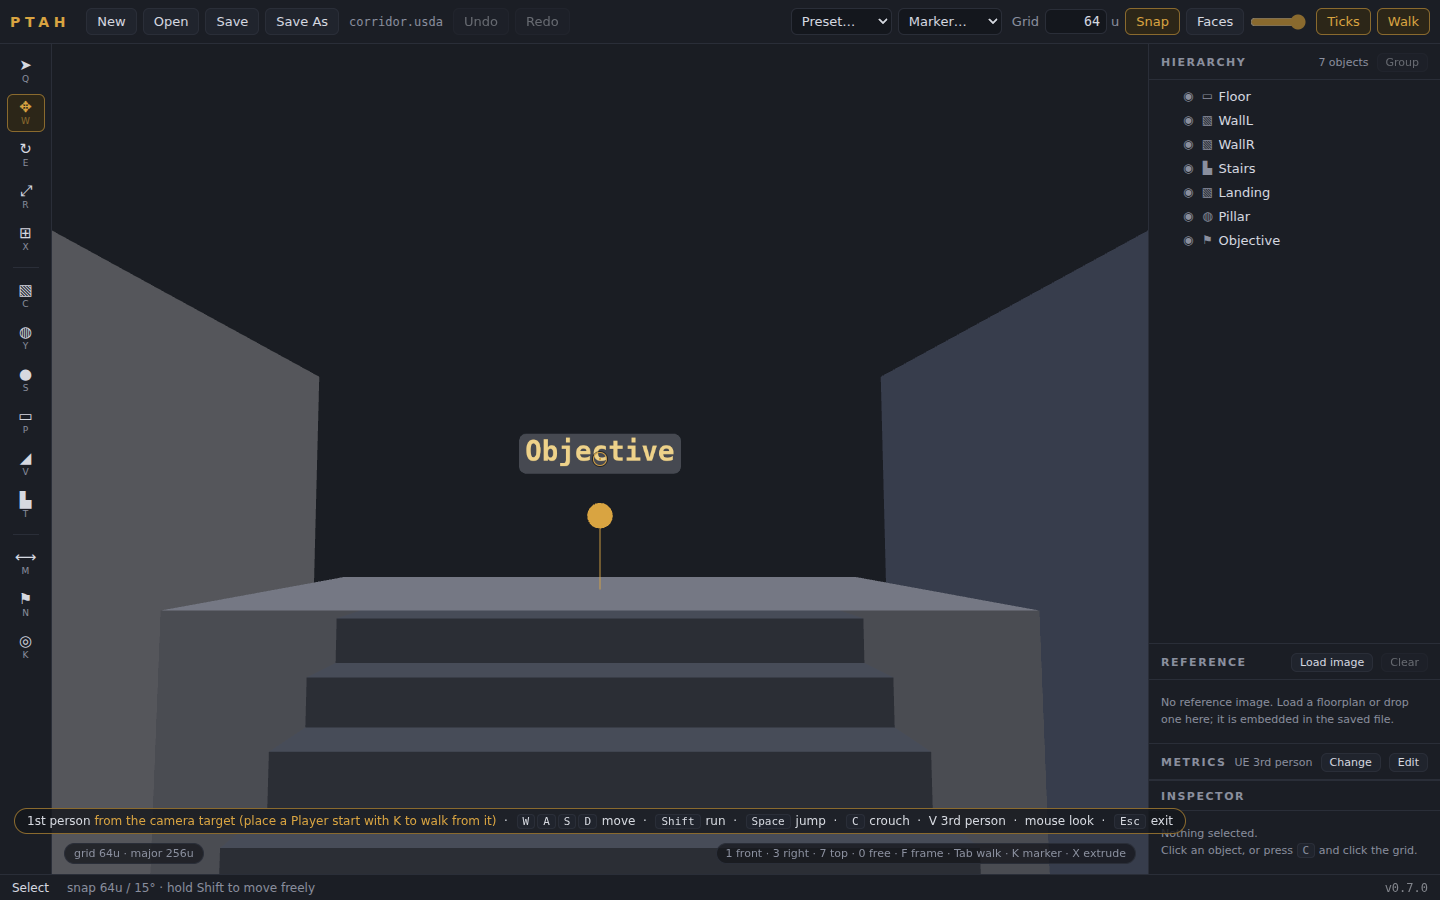
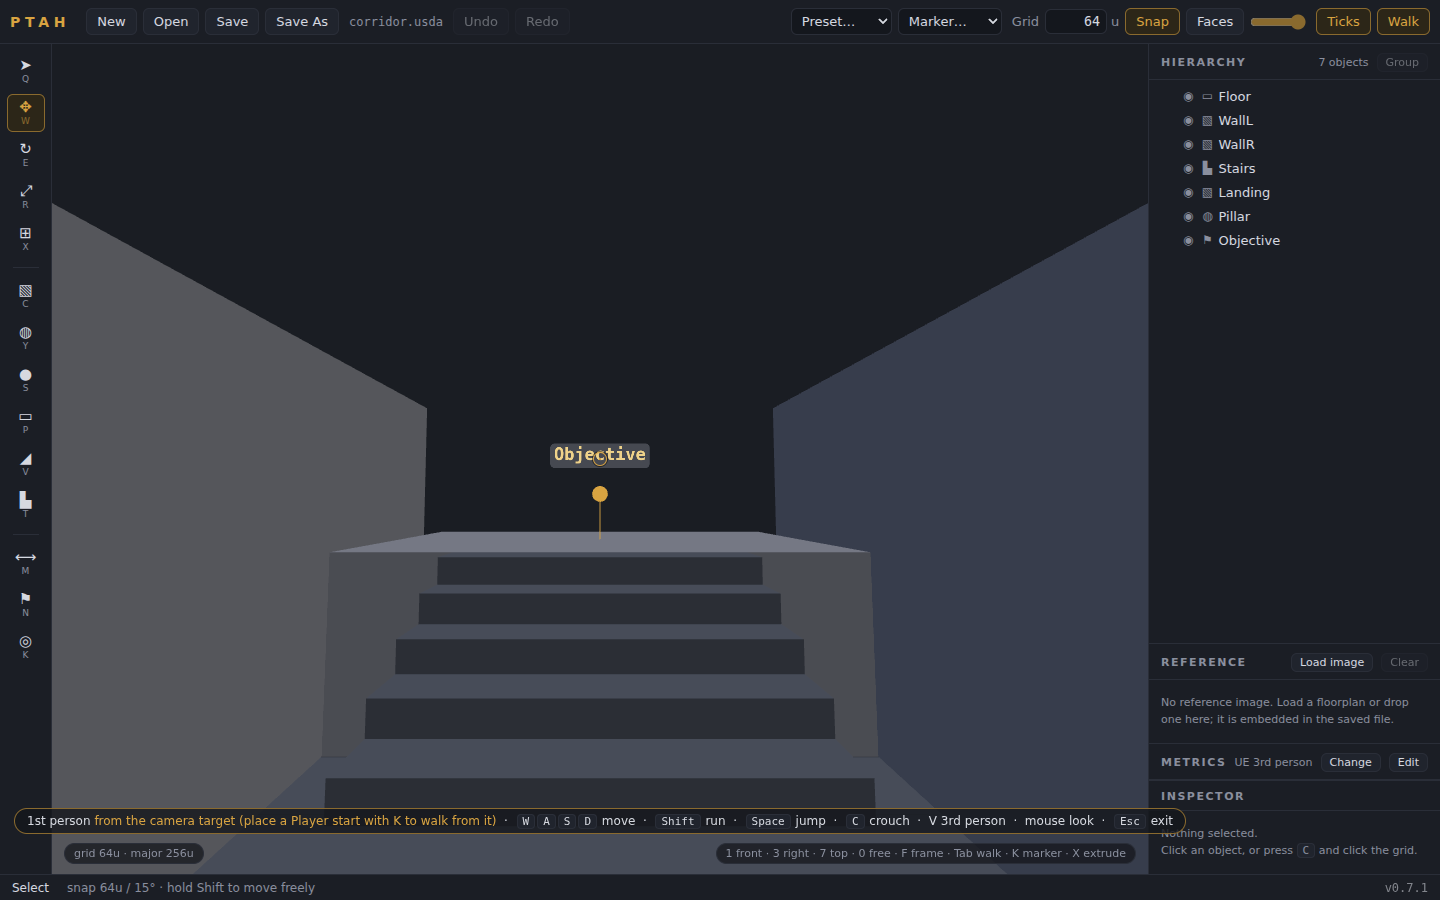
fix: v0.7.1 — mannequin scaled to the visible character height (180), walk camera uses the template FOV
- metrics: characterHeight (UE/Unity 180) and fov (UE 90, Unity 66) as profile numbers; saved in ptah:metrics
- walk.js: mannequin scaled to characterHeight; horizontal FOV applied for the walk (vertical follows aspect), restored on exit
- picker cards show mesh height and fov; tests: 168 unit assertions, E2E checks scale, FOV in/out

Changed region(s): [[0.0312, 0.2178, 0.8125, 0.9022], [0.1562, 0.9333, 0.6875, 0.9956]]

diff --git a/renderer/js/metrics.js b/renderer/js/metrics.js
@@ -23,20 +23,25 @@
 // First Person 4.0 / 6.0, both JumpHeight 1.2 m and Gravity -15; controller
 // height 1.8, radius 0.28 (TP) / 0.5 (FP), camera root 1.375, step 0.25.
 // Unity templates have no crouch; half the standing height is assumed.
+// characterHeight is the visible mesh (UE's Manny/Quinn stand about 180 inside
+// the 192 capsule; Unity's armature matches its 180 controller); the walk-mode
+// mannequin is scaled to it while ticks, markers and collision use the capsule.
+// fov is the templates' horizontal camera field of view: UE 90; Unity's
+// Cinemachine cameras default to 40 vertical, about 66 horizontal at 16:9.
 const CORE = (o) => Object.freeze(o);
 export const PROFILES = Object.freeze([
   { key: 'ue-third', engine: 'Unreal Engine', label: 'Third Person template', short: 'UE 3rd person',
     hint: 'Capsule 192 × 42, walks 500, jumps 143. The most common starting point.',
-    core: CORE({ playerHeight: 192, capsuleRadius: 42, eyeHeight: 160, crouchHeight: 80, stepHeight: 45, walkSpeed: 500, runSpeed: 500, jumpHeight: 143, jumpDistance: 408 }) },
+    core: CORE({ playerHeight: 192, capsuleRadius: 42, characterHeight: 180, eyeHeight: 160, crouchHeight: 80, stepHeight: 45, walkSpeed: 500, runSpeed: 500, jumpHeight: 143, jumpDistance: 408, fov: 90 }) },
   { key: 'ue-first', engine: 'Unreal Engine', label: 'First Person template', short: 'UE 1st person',
     hint: 'Capsule 192 × 55, walks 600, jumps 90. Character Movement defaults.',
-    core: CORE({ playerHeight: 192, capsuleRadius: 55, eyeHeight: 156, crouchHeight: 80, stepHeight: 45, walkSpeed: 600, runSpeed: 600, jumpHeight: 90, jumpDistance: 514 }) },
+    core: CORE({ playerHeight: 192, capsuleRadius: 55, characterHeight: 180, eyeHeight: 156, crouchHeight: 80, stepHeight: 45, walkSpeed: 600, runSpeed: 600, jumpHeight: 90, jumpDistance: 514, fov: 90 }) },
   { key: 'unity-third', engine: 'Unity', label: 'Third Person (Starter Assets)', short: 'Unity 3rd person',
     hint: 'Controller 180 × 28, walks 200, sprints 534, jumps 120.',
-    core: CORE({ playerHeight: 180, capsuleRadius: 28, eyeHeight: 137.5, crouchHeight: 90, stepHeight: 25, walkSpeed: 200, runSpeed: 533.5, jumpHeight: 120, jumpDistance: 427 }) },
+    core: CORE({ playerHeight: 180, capsuleRadius: 28, characterHeight: 180, eyeHeight: 137.5, crouchHeight: 90, stepHeight: 25, walkSpeed: 200, runSpeed: 533.5, jumpHeight: 120, jumpDistance: 427, fov: 66 }) },
   { key: 'unity-first', engine: 'Unity', label: 'First Person (Starter Assets)', short: 'Unity 1st person',
     hint: 'Controller 180 × 50, walks 400, sprints 600, jumps 120.',
-    core: CORE({ playerHeight: 180, capsuleRadius: 50, eyeHeight: 137.5, crouchHeight: 90, stepHeight: 25, walkSpeed: 400, runSpeed: 600, jumpHeight: 120, jumpDistance: 480 }) }
+    core: CORE({ playerHeight: 180, capsuleRadius: 50, characterHeight: 180, eyeHeight: 137.5, crouchHeight: 90, stepHeight: 25, walkSpeed: 400, runSpeed: 600, jumpHeight: 120, jumpDistance: 480, fov: 66 }) }
 ]);
 export const PROFILE_BY_KEY = Object.freeze(Object.fromEntries(PROFILES.map(p => [p.key, p])));
 
@@ -73,6 +78,7 @@ export const METRIC_NUMBER_KEYS = Object.freeze(Object.keys(METRICS_DEFAULTS).fi
 export const METRICS_FIELDS = Object.freeze([
   ['playerHeight', 'Player height', 'Standing capsule height. Drives PlayerStart and Spawn capsules and their ticks.'],
   ['capsuleRadius', 'Capsule radius', 'Collision radius. Drives the capsule markers, walk-mode body and door width.'],
+  ['characterHeight', 'Character height', 'Visible mesh height; the walk-mode mannequin is scaled to it. Unreal\'s capsule is taller than its mannequin.'],
   ['eyeHeight', 'Eye height', 'Walk-mode camera height.'],
   ['crouchHeight', 'Crouch height', 'Capsule height while crouched (hold C in walk mode).'],
   ['stepHeight', 'Step height', 'Tallest riser walked over without a jump.'],
@@ -80,6 +86,7 @@ export const METRICS_FIELDS = Object.freeze([
   ['runSpeed', 'Run speed', 'Units per second (Shift in walk mode).'],
   ['jumpHeight', 'Jump height', 'Apex above the feet (Space in walk mode).'],
   ['jumpDistance', 'Jump distance', 'Horizontal reach of a running jump.'],
+  ['fov', 'Camera FOV', 'Walk-mode horizontal field of view in degrees (the editor camera is unaffected).'],
   ['halfCover', 'Half cover', 'Derived: crouch + 20.'],
   ['fullCover', 'Full cover', 'Derived: height + 20.'],
   ['doorHeight', 'Door height', 'Derived: height + jump + 20, so a jumping player clears the lintel.'],
@@ -94,7 +101,7 @@ export function normalizeMetrics(m) {
   const out = {};
   for (const key of METRIC_NUMBER_KEYS) {
     const v = m && typeof m[key] === 'number' && isFinite(m[key]) ? m[key] : METRICS_DEFAULTS[key];
-    out[key] = Math.min(MAX, Math.max(MIN, v));
+    out[key] = key === 'fov' ? Math.min(150, Math.max(30, v)) : Math.min(MAX, Math.max(MIN, v));
   }
   const p = m && typeof m.profile === 'string' ? m.profile : null;
   out.profile = p && (PROFILE_BY_KEY[p] || p === 'custom') ? p : (m ? 'custom' : METRICS_DEFAULTS.profile);

diff --git a/renderer/js/walk.js b/renderer/js/walk.js
@@ -85,8 +85,15 @@ export function createWalkMode({ camera, orbit, canvas, metrics, collidables, on
   function showMannequin(on) {
     const c = char();
     if (!c) return;
-    if (on) c.setHeight(m().playerHeight);
+    if (on) c.setHeight(m().characterHeight || m().playerHeight);   // the visible body, not the collision capsule
     c.root.visible = on;
+  }
+  // The templates' cameras are wider than the editor's: UE 90° horizontal,
+  // Unity's Cinemachine about 66°. Applied for the walk, restored on exit.
+  function applyFov() {
+    const h = THREE.MathUtils.degToRad(m().fov || 90);
+    camera.fov = THREE.MathUtils.radToDeg(2 * Math.atan(Math.tan(h / 2) / camera.aspect));
+    camera.updateProjectionMatrix();
   }
   /** Crossfade to a clip by name; `once` clips play to the end and hold. */
   function play(name, { fade = 0.15, once = false, timeScale = 1 } = {}) {
@@ -129,7 +136,8 @@ export function createWalkMode({ camera, orbit, canvas, metrics, collidables, on
    */
   function enter(start = null, view = st.view) {
     if (st.active) return;
-    st.saved = { pos: camera.position.clone(), quat: camera.quaternion.clone(), target: orbit.target.clone() };
+    st.saved = { pos: camera.position.clone(), quat: camera.quaternion.clone(), target: orbit.target.clone(), fov: camera.fov };
+    applyFov();
     const dir = camera.getWorldDirection(new THREE.Vector3());
     st.yaw = start && typeof start.yaw === 'number' ? start.yaw : Math.atan2(-dir.x, -dir.z);
     st.pitch = 0;
@@ -166,6 +174,7 @@ export function createWalkMode({ camera, orbit, canvas, metrics, collidables, on
       camera.position.copy(st.saved.pos);
       camera.quaternion.copy(st.saved.quat);
       orbit.target.copy(st.saved.target);
+      camera.fov = st.saved.fov; camera.updateProjectionMatrix();
     }
     orbit.enabled = true;
     onChange(false);
@@ -313,6 +322,8 @@ export function createWalkMode({ camera, orbit, canvas, metrics, collidables, on
     _state: () => ({ crouching: st.crouching, airborne: st.airborne, feetY: st.feetY, vy: st.vy, view: st.view, px: st.px, pz: st.pz, charYaw: st.charYaw, action: st.action, speed: st.speed }),
     _press: (code) => st.keys.add(code),
     _release: (code) => st.keys.delete(code),
-    _look: (yaw, pitch) => { st.yaw = yaw; st.pitch = pitch; placeCamera(); }
+    _look: (yaw, pitch) => { st.yaw = yaw; st.pitch = pitch; placeCamera(); },
+    _fov: () => camera.fov,
+    _applyFov: applyFov
   };
 }

diff --git a/renderer/js/app.js b/renderer/js/app.js
@@ -29,7 +29,7 @@ import { createReference } from './reference.js';
 // 1. Constants & state
 // ============================================================================
 
-const APP_VERSION = '0.7.0';
+const APP_VERSION = '0.7.1';
 const GRID_EXTENT = 2048;            // half-width of the grid in units
 const ROTATION_SNAP_DEG = 15;
 const MIN_SIZE = 1;                  // smallest dimension the gizmo may snap to
@@ -2537,7 +2537,7 @@ for (const [key, label, hint] of METRICS_FIELDS) {
   input.className = 'num';
   input.type = 'number';
   input.min = '1';
-  input.step = key.endsWith('Speed') ? '50' : '5';
+  input.step = key.endsWith('Speed') ? '50' : key === 'fov' ? '1' : '5';
   input.id = 'metric-' + key;
   input.addEventListener('change', () => {
     const v = parseFloat(input.value);
@@ -2547,7 +2547,7 @@ for (const [key, label, hint] of METRICS_FIELDS) {
   input.addEventListener('keydown', (e) => { if (e.key === 'Enter') input.blur(); e.stopPropagation(); });
   const unit = document.createElement('span');
   unit.className = 'unit';
-  unit.textContent = key.endsWith('Speed') ? 'u/s' : 'u';
+  unit.textContent = key.endsWith('Speed') ? 'u/s' : key === 'fov' ? '°' : 'u';
   lab.append(span, input, unit);
   metricsUI.grid.appendChild(lab);
   metricsUI.fields[key] = input;
@@ -2583,7 +2583,7 @@ for (const p of PROFILES) {
   b.className = 'profile-card';
   b.dataset.profile = p.key;
   b.innerHTML = `<span class="engine">${p.engine}</span><span class="tpl">${p.label}</span>` +
-    `<span class="nums">capsule ${fmt(m.playerHeight)} × ${fmt(m.capsuleRadius)} · eye ${fmt(m.eyeHeight)} · walk ${fmt(m.walkSpeed)} · jump ${fmt(m.jumpHeight)}</span>` +
+    `<span class="nums">capsule ${fmt(m.playerHeight)} × ${fmt(m.capsuleRadius)} · mesh ${fmt(m.characterHeight)} · eye ${fmt(m.eyeHeight)} · walk ${fmt(m.walkSpeed)} · jump ${fmt(m.jumpHeight)} · fov ${fmt(m.fov)}</span>` +
     `<span class="nums dim">door ${fmt(m.doorHeight)} × ${fmt(m.doorWidth)} · cover ${fmt(m.halfCover)} / ${fmt(m.fullCover)}</span>`;
   b.title = p.hint;
   b.addEventListener('click', () => pickProfile(p.key));
@@ -2801,6 +2801,7 @@ function resize() {
   renderer.setSize(w, h, false);
   camera.aspect = w / h;
   camera.updateProjectionMatrix();
+  if (walk.active) walk._applyFov();      // horizontal FOV is fixed by the profile; vertical follows the aspect
 }
 window.addEventListener('resize', resize);
 

diff --git a/renderer/js/usd.js b/renderer/js/usd.js
@@ -251,8 +251,8 @@ export function unescapeUsdString(str) {
 
 const usdStringArray = (arr) => '[' + arr.map(t => `"${usdString(t)}"`).join(', ') + ']';
 
-const METRIC_KEYS = ['playerHeight', 'capsuleRadius', 'eyeHeight', 'crouchHeight', 'stepHeight', 'walkSpeed', 'runSpeed',
-  'jumpHeight', 'jumpDistance', 'halfCover', 'fullCover', 'doorHeight', 'doorWidth', 'corridorWidth'];
+const METRIC_KEYS = ['playerHeight', 'capsuleRadius', 'characterHeight', 'eyeHeight', 'crouchHeight', 'stepHeight', 'walkSpeed', 'runSpeed',
+  'jumpHeight', 'jumpDistance', 'fov', 'halfCover', 'fullCover', 'doorHeight', 'doorWidth', 'corridorWidth'];
 
 /**
  * objects: tree of

diff --git a/HANDOFF.md b/HANDOFF.md
@@ -34,7 +34,11 @@ docs/                 importing.md (engine notes), level-designer-gap-analysis.m
 
 If you are handing this to Claude on another account, say something like "continue work on Ptah, project files attached" and upload the repo (or just the zip). README plus this file are enough context to pick up without re-deriving decisions.
 
-## Where things stand: v0.7.0
+## Where things stand: v0.7.1
+
+Scale fix from review: the mannequin is scaled to a new **characterHeight** metric (visible mesh: 180 in every template; UE's 192 is the capsule) and walk mode uses a new **fov** metric (horizontal: UE 90, Unity 66). Both are profile numbers, saved in the file. The Unity 66° comes from Cinemachine's default 40° vertical at 16:9 and is not confirmed against the Starter Assets prefabs; the UE 90 is the template default.
+
+## v0.7.0
 
 Third-person walk. `V` switches views; third-person profiles start in third person. The mannequin is a Mixamo character (Ch36 + Basic Locomotion Pack) converted by `tools/mixamo/fbx2ptah.py`, a from-scratch binary-FBX reader (nothing could be downloaded in the build environment), into a skinned glTF read by `renderer/js/gltf.js`, a minimal glTF loader (three.js core has none). Both are exercised by unit tests: the rest pose reproduces the bind pose to 1e-3 and all seven clips bind. The mannequin is embedded as a base64 module (`renderer/assets/mannequin.glb.js`, 1.6 MB) because the CSP forbids fetch and Electron's file:// cannot be fetched anyway. Licence note in `renderer/assets/README.md`: confirm the Mixamo embedding with whoever handles university IP (same conversation as the LICENSE wording). 66 E2E steps.
 
@@ -74,7 +78,7 @@ v0.3 was built against a studio level designer use case (`docs/level-designer-ga
 - autosave to IndexedDB with a recovery bar
 - persistent `ptah:id` per object
 
-**Verified in this build:** unit tests (163 assertions), the browser E2E (66 scenario steps plus the runner's web-save and reload-recovery checks) under headless Chromium. **Not verified in this build** (no npm registry or PyPI): the Electron smoke test, `npm run dist`, usd-core validation of the new attributes and the `ptah:metrics` dictionary (`test/sample.usda` carries all of them, so `npm run test:usd-core` covers it), and both engine scripts. `tools/unreal/ptah_import.py --dry-run test/sample.usda` needs only `pip install usd-core` and is the cheapest first check; the Unity scripts compile against the Unity 2022 LTS Editor API and were written from documentation, not run. Treat both scripts as drafts until someone has run them once.
+**Verified in this build:** unit tests (166 assertions), the browser E2E (66 scenario steps plus the runner's web-save and reload-recovery checks) under headless Chromium. **Not verified in this build** (no npm registry or PyPI): the Electron smoke test, `npm run dist`, usd-core validation of the new attributes and the `ptah:metrics` dictionary (`test/sample.usda` carries all of them, so `npm run test:usd-core` covers it), and both engine scripts. `tools/unreal/ptah_import.py --dry-run test/sample.usda` needs only `pip install usd-core` and is the cheapest first check; the Unity scripts compile against the Unity 2022 LTS Editor API and were written from documentation, not run. Treat both scripts as drafts until someone has run them once.
 
 v0.2 recap, still accurate: the object model is a real scene tree with the classroom features the roadmap asked for:
 

diff --git a/README.md b/README.md
@@ -101,7 +101,7 @@ A new level starts with one question: what are you building for? Unreal Engine T
 
 - 1 scene unit = 1 cm (`metersPerUnit = 0.01`, Y-up in the file). This matches Unreal units directly; Unity's USD importer converts to meters automatically.
 - Default grid: 64 units, with major lines every 4 cells and distance labels along both axes.
-- Metrics come from the engine template you pick. Unreal Third Person, the default for files that carry none: capsule 192 × 42 (the template's `InitCapsuleSize(42, 96)`), eye 160, crouch 80, step 45, walk 500, jump 143 high / 408 long; derived half cover 100, full cover 220, door 360 × 170, corridor 340. Unreal First Person: capsule 192 × 55, walk 600, jump 90, door 310 × 220. Unity Starter Assets: controller 180 × 28 (third person) or 180 × 50 (first person), eye 137.5, step 25, jump 120; doors 320 × 120 / 320 × 200. Derivation rules are in `renderer/js/metrics.js`; every value is editable in the Metrics panel and saves with the file.
+- Metrics come from the engine template you pick. Unreal Third Person, the default for files that carry none: capsule 192 × 42 (the template's `InitCapsuleSize(42, 96)`), visible character 180, eye 160, crouch 80, step 45, walk 500, jump 143 high / 408 long, camera 90° horizontal; derived half cover 100, full cover 220, door 360 × 170, corridor 340. Unreal First Person: capsule 192 × 55, walk 600, jump 90, door 310 × 220. Unity: character 180, camera 66°. Unity Starter Assets: controller 180 × 28 (third person) or 180 × 50 (first person), eye 137.5, step 25, jump 120; doors 320 × 120 / 320 × 200. Derivation rules are in `renderer/js/metrics.js`; every value is editable in the Metrics panel and saves with the file.
 - An object's **Size** in the inspector is its dimensions in units (base geometry is unit-sized; dimensions live in the scale op). **Bounds** is the world axis-aligned box of the object and its children, which differs from Size once something is rotated.
 - A child inherits its parent's transform, scale included. Group with an empty group (`Ctrl+G`), which has scale 1, rather than parenting under a stretched cube, unless you want the stretch.
 

diff --git a/CHANGELOG.md b/CHANGELOG.md
@@ -1,5 +1,10 @@
 # Changelog
 
+## 0.7.1 (2026-09-18)
+
+### Fixed
+- **The mannequin was too big, twice.** It was scaled to the collision capsule (192 in Unreal), but the templates' visible mannequins are about 180 cm inside that capsule; and the walk camera used the editor's 50° vertical lens where the templates use 90° horizontal (about 59° vertical at 16:9). Together she filled a quarter more of the frame than she would in Unreal. Two profile numbers fix it: **Character height** (visible mesh; UE 180, Unity 180) scales the mannequin, while ticks, markers, collision and the derived sizes keep the capsule; **Camera FOV** (horizontal; UE 90, Unity 66, from Cinemachine's 40° vertical) applies for the walk and is restored on exit. Both are editable, saved in the file, and shown on the picker cards.
+
 ## 0.7.0 (2026-09-18)
 
 ### Added
